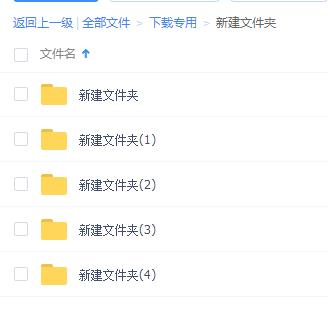
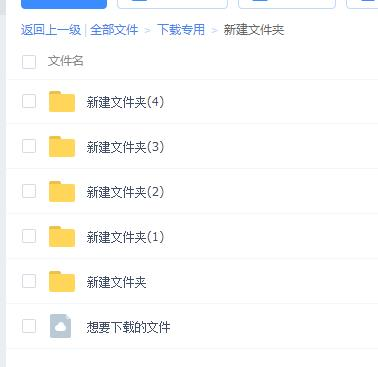
ha

diff --git a/_posts/2018-02-25-教程-百度云网盘非会员限速解决方法.md b/_posts/2018-02-25-教程-百度云网盘非会员限速解决方法.md
@@ -4,8 +4,8 @@ title:      教程-百度云网盘非会员限速解决方法
 subtitle:
 date:       2018-02-25
 author:     Hanayuki
-header-img: img/post-meimei03.jpg
-article-img: http://hanayuki.me/img/post-meimei03.jpg
+header-img: img/post-meimei04.jpg
+article-img: http://hanayuki.me/img/post-meimei04-img.png
 article-img-width: 85%
 catalog: true
 tags:
@@ -31,4 +31,4 @@ tags:
 <p>在自己的网盘上新建一个文件夹，再在这个文件夹里新建多个文件夹（五个左右即可）</p>
 <p>把想下载的文件保存到新建文件夹中（和其他多个文件夹并列在同一个文件夹），如下图</p>
 <img src="http://hanayuki.me/img/post-baidu01.jpg">
-<p>选中新建文件夹点击下载，这时会弹出下载窗口（各浏览器有所差异），复制下载链接，打开idm，添加任务，粘贴刚复制的链接开始任务即可</p>
+<p>选中最外层的新建文件夹点击下载，这时会弹出下载窗口（各浏览器有所差异），复制下载链接，打开idm，添加任务，粘贴刚复制的链接开始任务即可</p>
